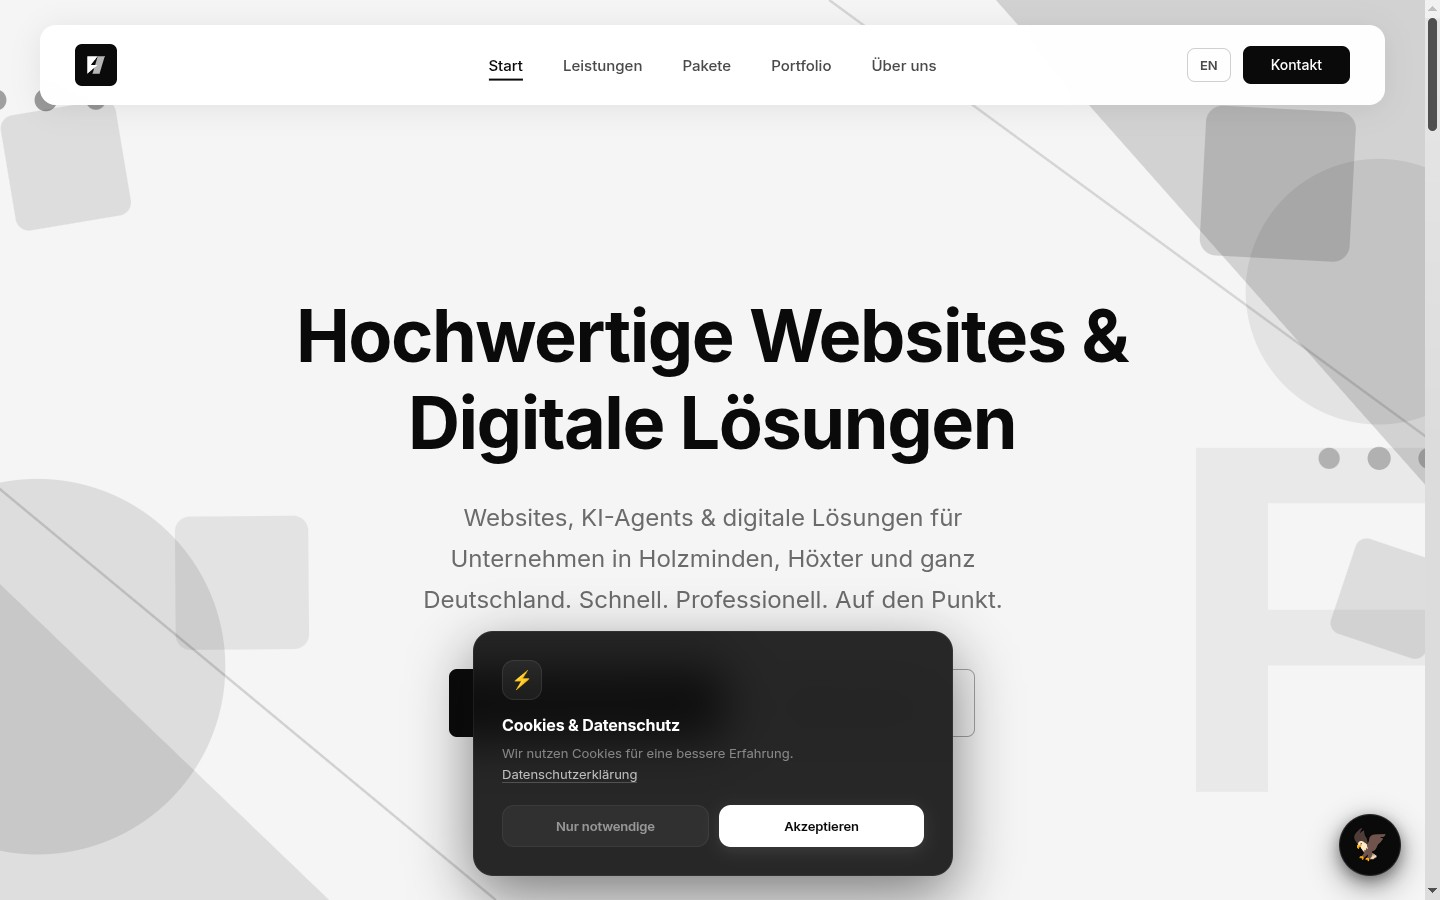
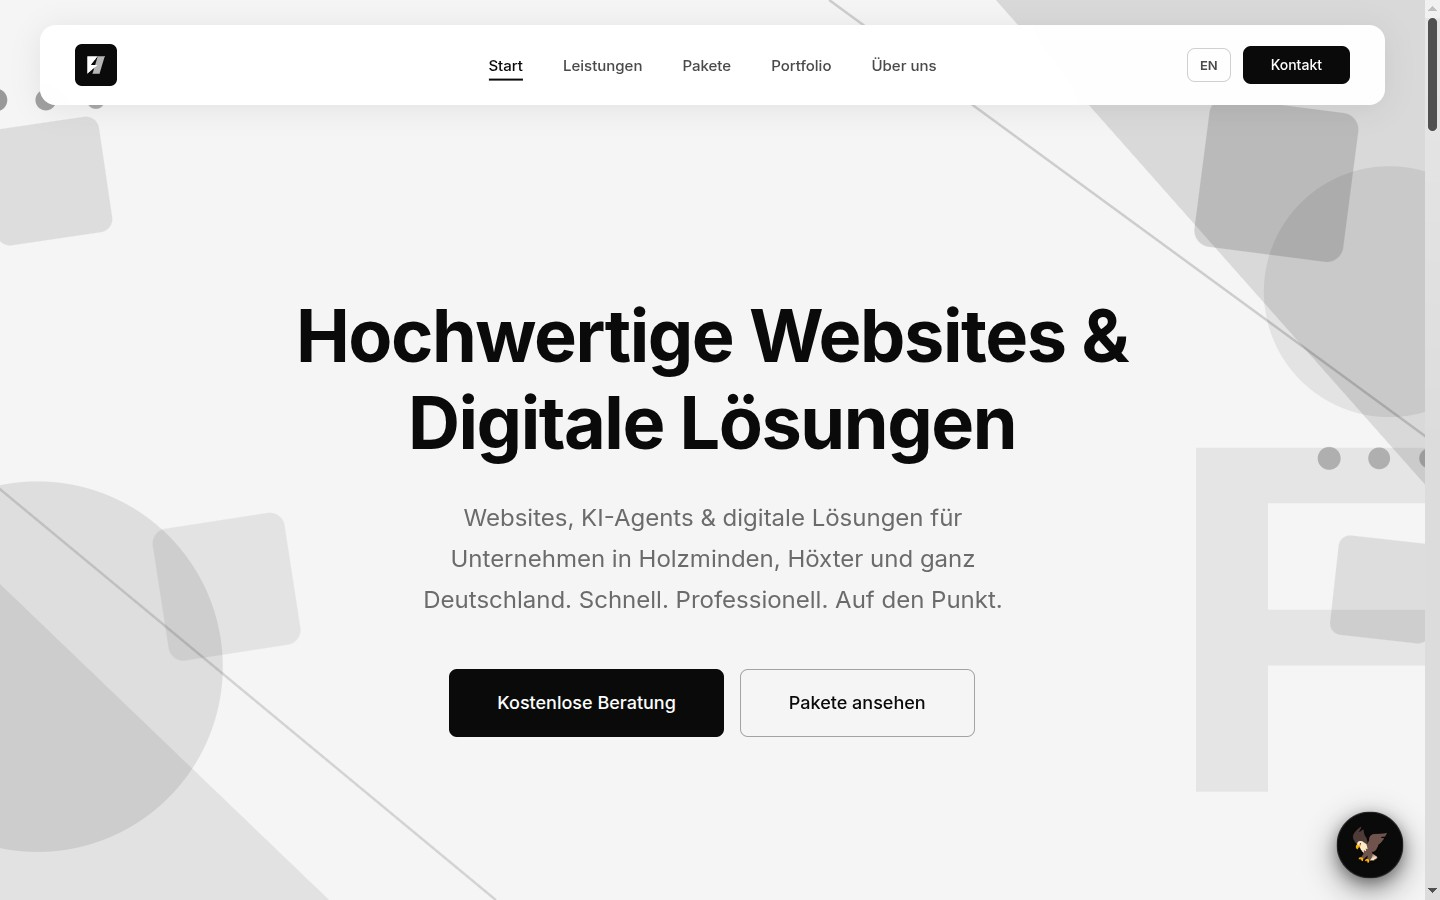
Echte Case-Bilder eingebunden: App-Store-Shots, Live-Screenshots, SOVERRA, ask-gdpr

diff --git a/index.html b/index.html
@@ -63,8 +63,10 @@
       </div>
 
       <article class="case">
-        <div class="case__media reveal" data-asset="case-trackx">
-          <div class="ph">TRACKX</div>
+        <div class="case__media case__media--phones reveal" data-asset="case-trackx">
+          <img src="assets/cases/trackx-01.webp" alt="TrackX — Dashboard" loading="lazy">
+          <img src="assets/cases/trackx-04.webp" alt="TrackX — GPS-Tracking" loading="lazy">
+          <img src="assets/cases/trackx-07.webp" alt="TrackX — Team-Features" loading="lazy">
         </div>
         <div class="case__body">
           <span class="case__num">01</span>
@@ -82,7 +84,7 @@
 
       <article class="case">
         <div class="case__media reveal" data-asset="case-falcontech">
-          <div class="ph">FALCONTECH</div>
+          <img src="assets/cases/case-falcontech.jpeg" alt="FalconTech Solutions — Website" loading="lazy">
         </div>
         <div class="case__body">
           <span class="case__num">02</span>
@@ -100,7 +102,7 @@
 
       <article class="case">
         <div class="case__media reveal" data-asset="case-tapaloca">
-          <div class="ph">TAPALOCA</div>
+          <img src="assets/cases/case-tapaloca.jpeg" alt="TapaLoca Holzminden — Live-Website mit Buchungssystem" loading="lazy">
         </div>
         <div class="case__body">
           <span class="case__num">03</span>
@@ -114,7 +116,7 @@
 
       <article class="case">
         <div class="case__media reveal" data-asset="case-soverra">
-          <div class="ph">SOVERRA</div>
+          <img src="assets/cases/case-soverra.jpeg" alt="SOVERRA — Souveräne KI" loading="lazy">
         </div>
         <div class="case__body">
           <span class="case__num">04</span>
@@ -128,7 +130,7 @@
 
       <article class="case">
         <div class="case__media reveal" data-asset="case-askgdpr">
-          <div class="ph">ASK-GDPR</div>
+          <img src="assets/cases/case-askgdpr.png" alt="ask-gdpr — RAG über die DSGVO" loading="lazy">
         </div>
         <div class="case__body">
           <span class="case__num">05</span>

diff --git a/assets/style.css b/assets/style.css
@@ -184,6 +184,18 @@ a { color: inherit; text-decoration: none; }
     radial-gradient(120% 100% at 85% 90%, rgba(242,239,233,0.06), transparent 60%),
     var(--bg-soft);
 }
+.case__media--phones {
+  display: flex; gap: 4%; align-items: center; justify-content: center;
+  padding: 6% 8%;
+  background:
+    radial-gradient(120% 90% at 20% 10%, rgba(255,90,31,0.14), transparent 55%),
+    radial-gradient(120% 100% at 85% 90%, rgba(242,239,233,0.06), transparent 60%),
+    var(--bg-soft);
+}
+.case__media--phones img {
+  position: static; width: auto; height: 100%; max-width: 30%;
+  object-fit: contain; border-radius: 10px;
+}
 .case__body { display: flex; flex-direction: column; gap: 0.9rem; }
 .case__num {
   font-family: var(--display); font-weight: 500;